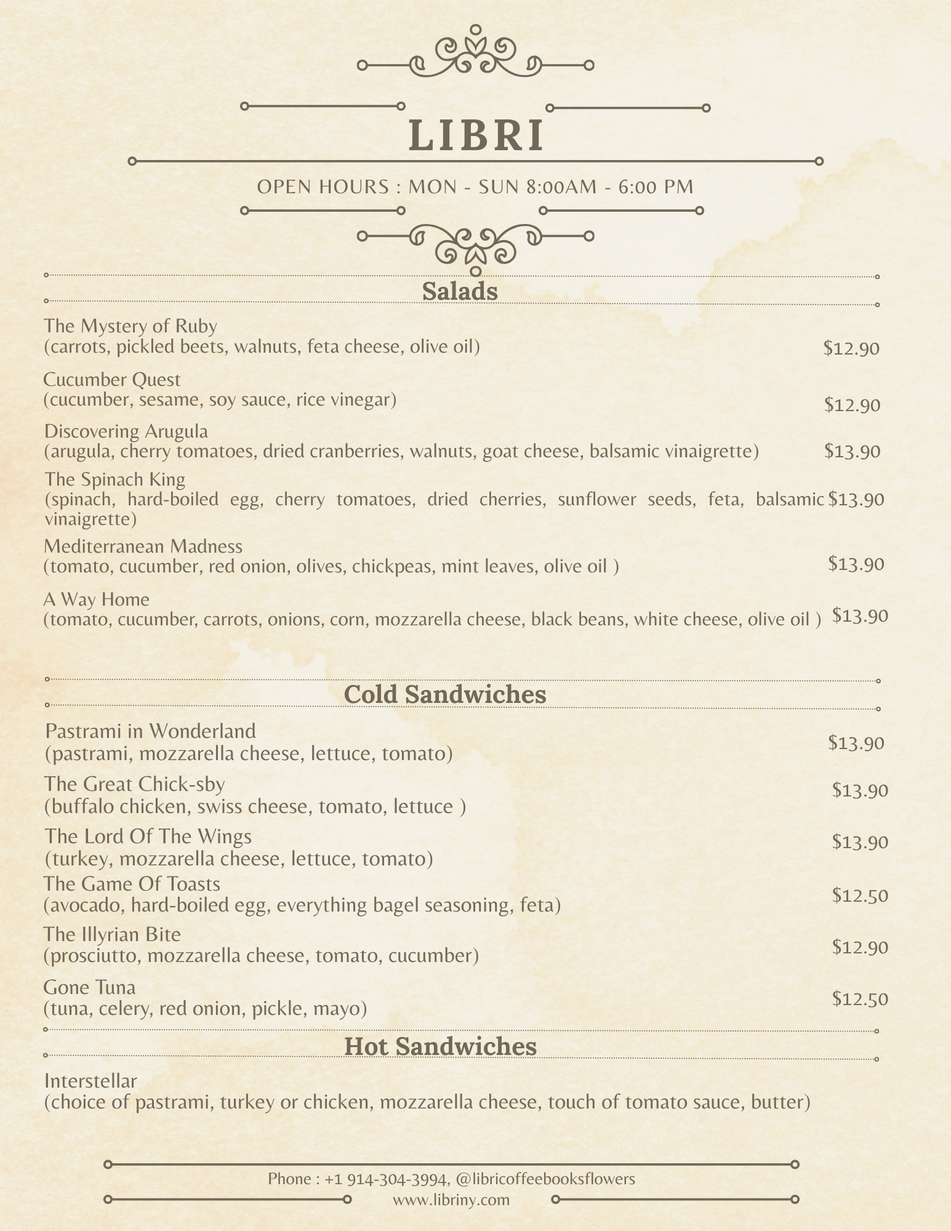
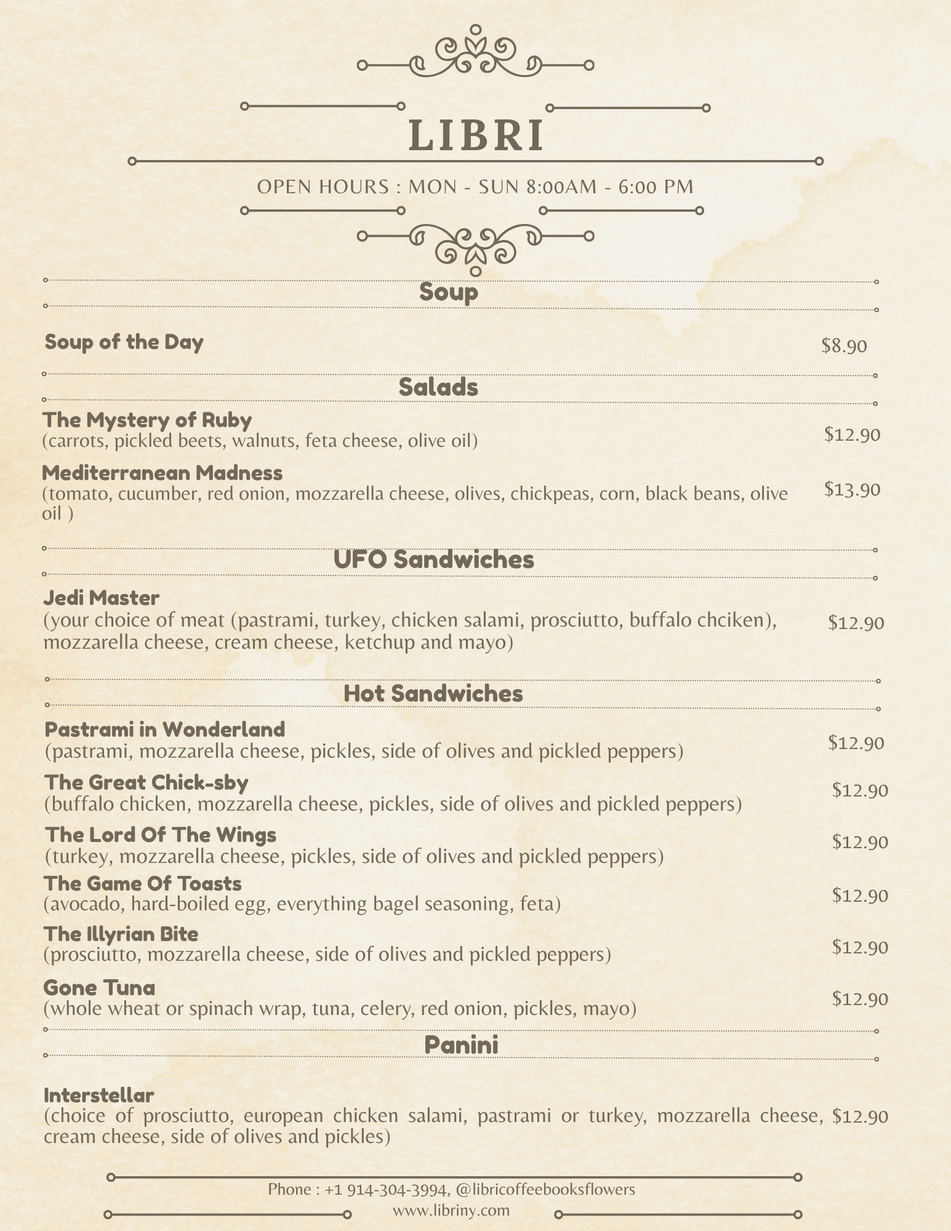
menu and address correction
menu change and address correction

diff --git a/index.html b/index.html
@@ -921,7 +921,7 @@
             </a>
             <div class="footer-contact pt-3">
               <p>1961 Commerce Street</p>
-              <p>Yorktwon Heights, NY 10596</p>
+              <p>Yorktown Heights, NY 10596</p>
               <p class="mt-3"><strong>Phone:</strong> <span>+1 914 304 3994</span></p>
               <p><strong>Email:</strong> <span>info@libriny.com</span></p>
             </div>
